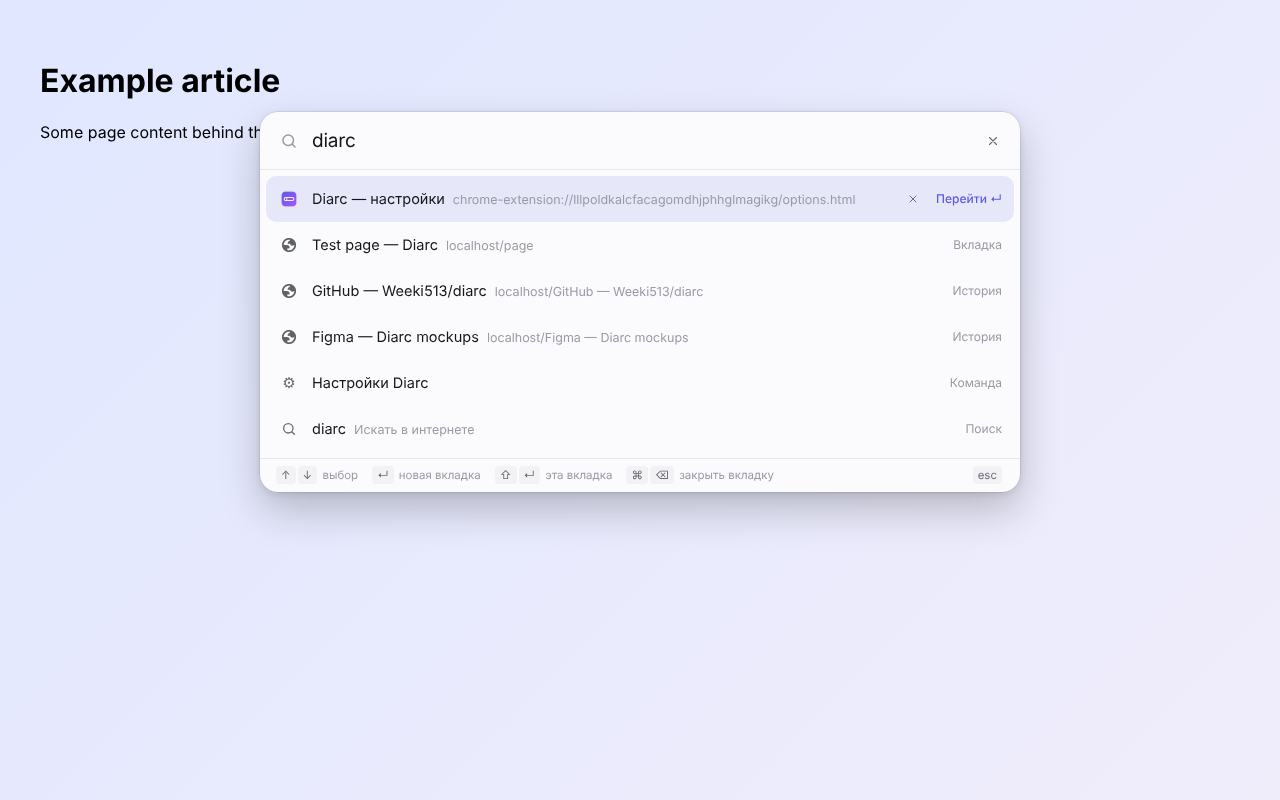
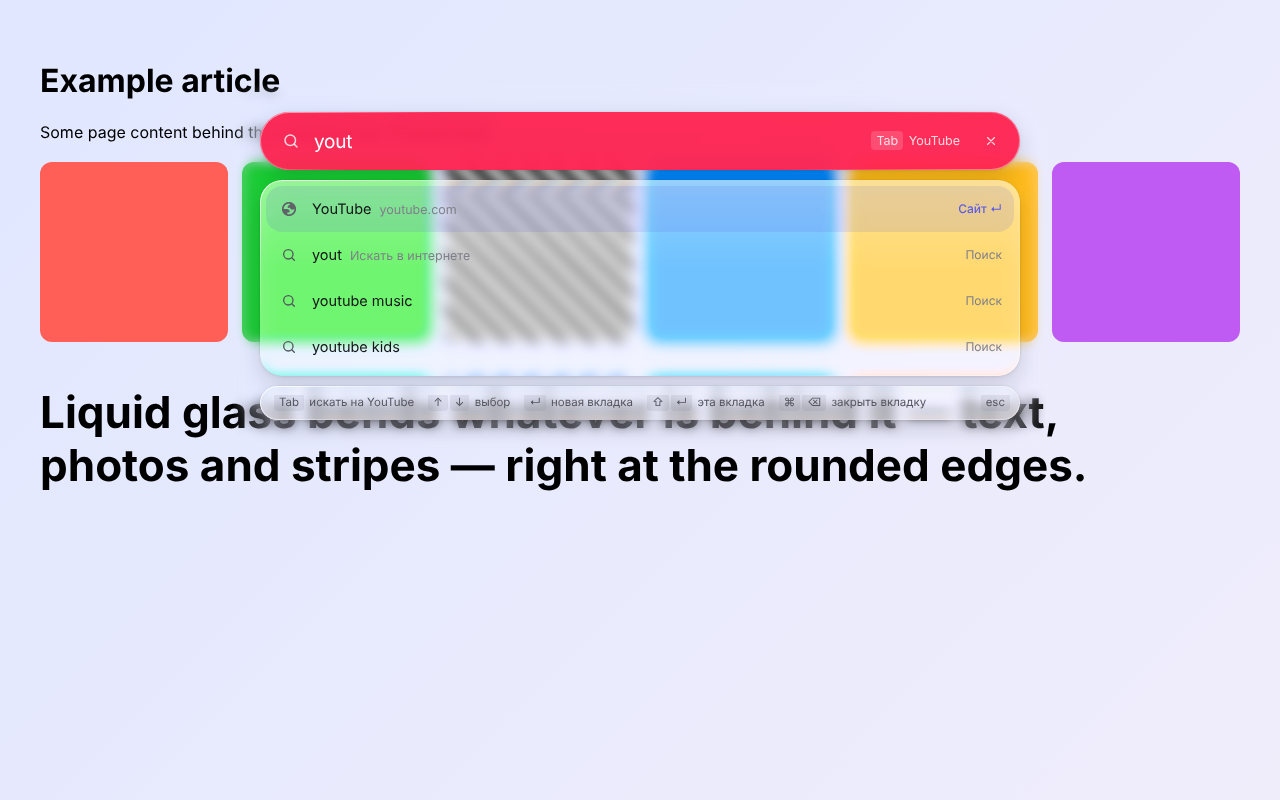
Release prep: Why section (RU/EN), English README, install from release, store listing texts, fresh screenshots
Claude-Session: https://claude.ai/code/session_01DusGhi5FFV57gGQGHy1Vt5

diff --git a/README.md b/README.md
@@ -6,6 +6,27 @@
 
 ![Diarc](docs/screenshots/home.png)
 
+**[English below](#in-english)** · [Скачать последний релиз](https://github.com/Weeki513/diarc/releases/latest)
+
+## Зачем
+
+Мне было неудобно, что при открытии поиска в Dia открывается новая вкладка. Хотелось вернуть простоту, которая была в Arc:
+там по `⌘T` открывалась не новая вкладка, а строка ввода прямо поверх текущей страницы. Я долго ждал чего-то подобного
+от The Browser Company, но устал ждать и сделал сам.
+
+Заодно хотелось больше свободы и функциональности. Так появились виджеты и простой способ добавлять свои.
+И немного красоты и самовыражения. Так появились ASCII-анимации.
+
+Поэтому, когда выдалась пара свободных часов, я сделал это расширение. Сейчас оно доступно на GitHub, а скоро появится
+в [Chrome Web Store](https://chromewebstore.google.com/category/extensions).
+
+<p>
+  <img src="docs/screenshots/search.png" width="49%" alt="Поиск с подсказками">
+  <img src="docs/screenshots/tab-search.png" width="49%" alt="Tab-поиск по сайту">
+  <img src="docs/screenshots/creatures.png" width="49%" alt="Существа под стеклом">
+  <img src="docs/screenshots/edit.png" width="49%" alt="Редактирование плиток">
+</p>
+
 ## Что умеет
 
 - **Поиск** как в адресной строке: подсказки из интернета (Google или DuckDuckGo, можно выключить), сайты, открытые
@@ -38,7 +59,19 @@
 - Весь UI — Preact, около 25 КБ gzip.
 - Страница не видит ни ваших писем и событий, ни нажатий клавиш в баре: всё отрисовывается внутри extension-фрейма.
 
-## Установка (для разработки)
+## Установка
+
+Пока расширения нет в Chrome Web Store, его можно поставить из релиза:
+
+1. Скачайте `diarc-<версия>.zip` со страницы [Releases](https://github.com/Weeki513/diarc/releases/latest) и распакуйте.
+2. В Dia откройте `dia://extensions` и включите **Developer mode** (справа сверху).
+3. Нажмите **Load unpacked** и выберите распакованную папку (в ней лежит `manifest.json`).
+4. Откройте любую страницу и нажмите `⌃⇧Space`. Как сделать `⌘T`, написано ниже.
+
+Не удаляйте папку после установки: Dia загружает расширение прямо из неё. Чтобы обновиться, замените содержимое папки
+новым релизом и нажмите ↻ у расширения.
+
+### Из исходников
 
 ```bash
 git clone https://github.com/Weeki513/diarc && cd diarc
@@ -100,6 +133,45 @@ scripts/        сборка, генерация иконок, шаблон ви
 ```
 
 `npm run typecheck` проверяет типы, `npm run test:e2e` (нужен Playwright) прогоняет сценарий в Chromium и сохраняет скриншоты.
+
+## In English
+
+**Diarc** brings Arc's command bar back to [Dia](https://www.diabrowser.com/): press `⌘T` and a search bar appears on top of
+the page you're on, instead of a new tab.
+
+### Why
+
+The thing that bugged me in Dia was that opening search always opened a new tab. I wanted the simplicity Arc had back:
+`⌘T` there didn't open a new tab, it opened an input right over the current page. I waited a long time for something like
+this from The Browser Company, got tired of waiting and built it myself.
+
+I also wanted more freedom and functionality, which is where widgets and the easy way to add your own came from. And a bit
+of beauty and self-expression, which is where the ASCII animations came from. So when I had a couple of free hours, I built
+this extension. It's on GitHub now and coming to the Chrome Web Store soon.
+
+### Features
+
+- Omnibox-style search: web suggestions (Google or DuckDuckGo, can be turned off), open tabs, bookmarks and history in one list.
+  The selected suggestion is ghost-completed in the input, `Tab` or `→` accepts it.
+- Arc-style site search: type `youtube`, press `Tab`, and the query goes to YouTube. ~30 sites built in, custom ones in settings,
+  OpenSearch sites you visit are picked up automatically.
+- The search pill takes on the color of the site you're about to open.
+- Liquid glass: the pill, tiles and footer are separate pieces of glass that refract the page at their edges, with one light
+  that follows the cursor and scroll. Tunable with sliders and a live preview.
+- iOS-style widget tiles: Google Calendar, TickTick, Gmail, quick links, weather, and your own (one file each, see
+  [docs/WIDGETS.md](docs/WIDGETS.md)).
+- ASCII creatures (mantas, fireflies, swallows, turtles, leaves) drifting over pages under the glass or in an "Aquarium" tab.
+  Add your own in one file: [docs/CREATURES.md](docs/CREATURES.md).
+- Tab commands, quick task and event creation (`t buy milk tomorrow`, `e call friday 3pm 30 min`).
+
+### Install
+
+1. Download `diarc-<version>.zip` from [Releases](https://github.com/Weeki513/diarc/releases/latest) and unzip it.
+2. Open `dia://extensions`, turn on **Developer mode**, click **Load unpacked** and pick the unzipped folder.
+3. Press `⌃⇧Space` on any page. For `⌘T`, use the Karabiner rules in `karabiner/diarc.json` (see the Russian section above).
+
+Google and TickTick widgets need your own OAuth clients: [docs/OAUTH.md](docs/OAUTH.md). Everything else works out of the box.
+Privacy: [docs/PRIVACY.md](docs/PRIVACY.md).
 
 ## Лицензия
 
